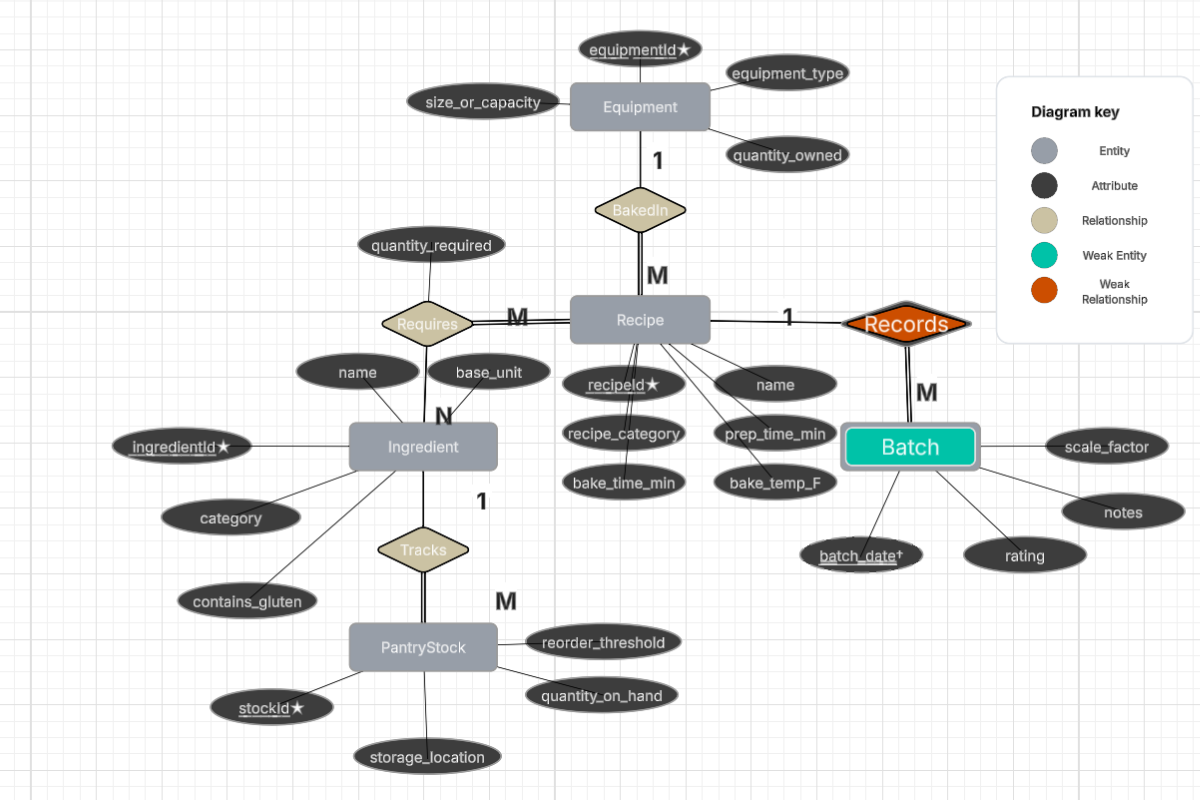
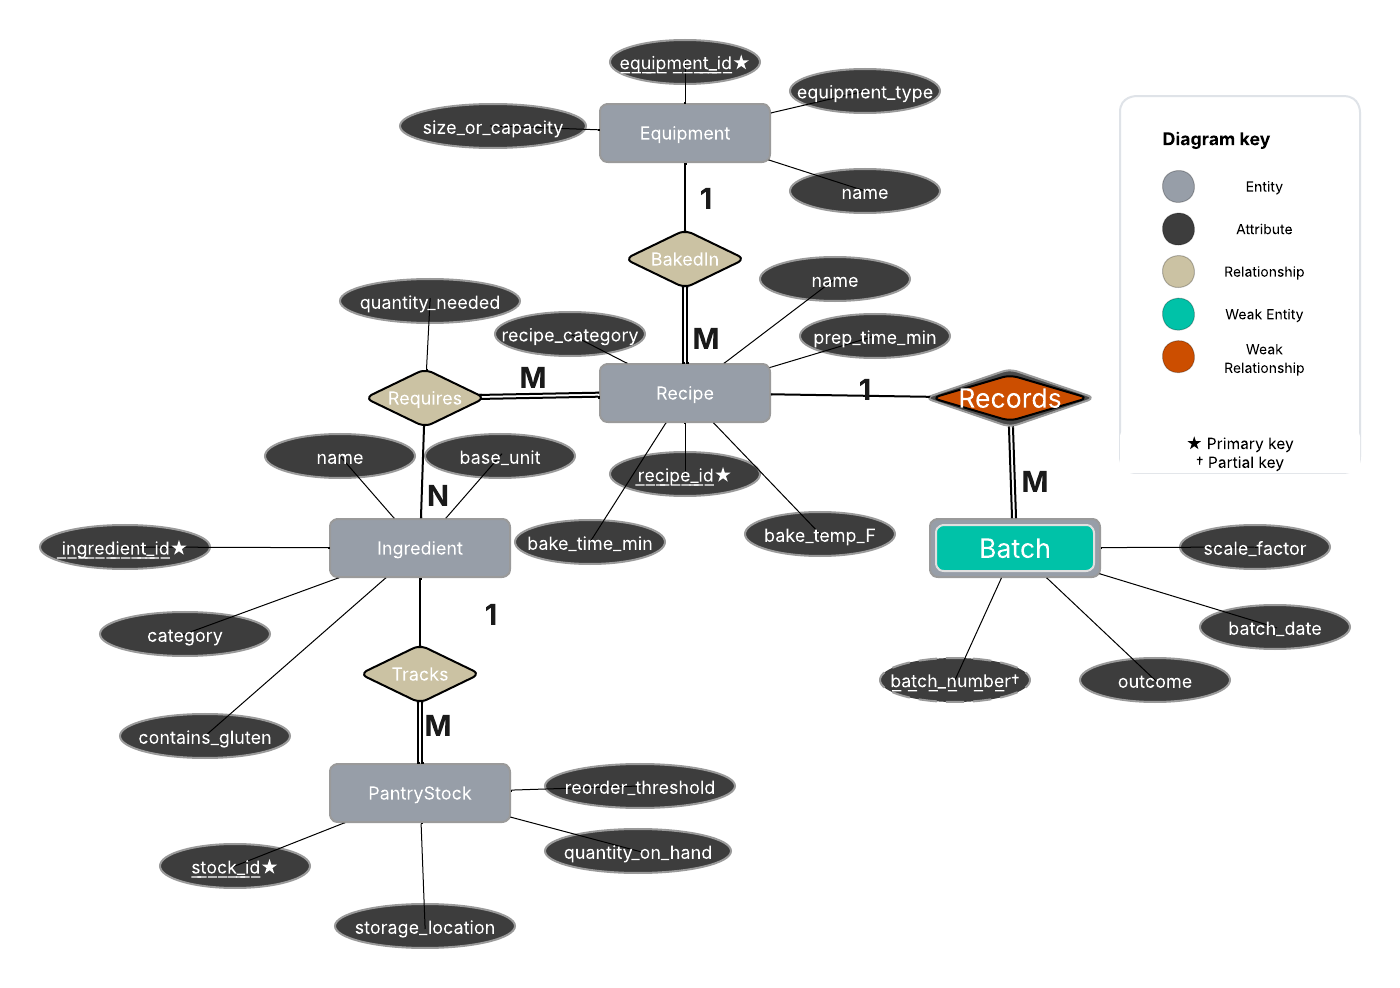
Convert proposal to .md, rename Batch to Bake, update ER diagram and SQL dump

diff --git a/Database_Proposal.md b/Database_Proposal.md
@@ -1,0 +1,70 @@
+# Database Description
+
+I want to make a database that I can use to keep track of what ingredients I have for various recipes I like to bake. I've chosen to go with baking specifically, as I want to keep the scope for this project at a manageable level.
+
+A couple of choices I made to keep things focused: I'm measuring everything in grams, including eggs, so every quantity in the database uses the same unit.
+
+The database is built in MySQL and has six tables: one for each of the five entities below, plus RecipeIngredient for the many-to-many relationship.
+
+## Entities and Descriptions
+
+**Ingredient** - a type of baking ingredient
+
+- ingredient_id (primary key)
+- name
+- category (flour / sweetener / dairy / leavening / chocolate / seasoning)
+- base_unit (g)
+- contains_gluten (yes/no)
+
+Sample instances: All-purpose flour, Unsalted butter
+
+**Recipe** - a baking recipe
+
+- recipe_id (primary key)
+- equipment_id (foreign key to Equipment)
+- name
+- recipe_category (cookie / bread / cake)
+- prep_time_min
+- bake_time_min
+- bake_temp_F
+
+Sample instances: Chocolate chip cookies, Sandwich bread, Vanilla pound cake
+
+**PantryStock** - how much of an ingredient I have in a given place
+
+- stock_id (primary key)
+- ingredient_id (foreign key to Ingredient)
+- quantity_on_hand
+- storage_location (pantry / fridge / freezer)
+- reorder_threshold (minimum amount in that location before I need to restock)
+
+**Equipment** - tools and bakeware I own
+
+- equipment_id (primary key)
+- name
+- equipment_type (pan / mixer / scale / rack)
+- size_or_capacity
+
+**Batch** (weak entity) - a record of one time I actually made a recipe
+
+- recipe_id (part of the primary key, from Recipe)
+- batch_number (partial key - only unique within a recipe)
+- batch_date
+- scale_factor (0.5 for a half batch, 2 for a double batch, etc.)
+- outcome
+
+A Batch has no identity of its own. The date and an ~~~~outcome mean nothing without knowing which recipe they belong to so Recipe identifies it. Its primary key is (recipe_id, batch_number). I used a batch number rather than the date as the partial key so I can make the same recipe twice in one day.
+
+## Relationships
+
+- **Requires** (many-to-many): a Recipe requires many Ingredients, and an Ingredient can be used in many recipes. It is stored in the RecipeIngredient table, keyed on (recipe_id, ingredient_id), and carries a `quantity_needed` attribute. Every recipe should have at least one ingredient (total participation); an ingredient doesn't have to appear in any recipe yet.
+- **Tracks** (one-to-many): an Ingredient can have several PantryStock records, one per storage location - bulk flour in the freezer and working flour in the pantry are tracked separately. Every stock record belongs to exactly one ingredient.
+- **BakedIn** (one-to-many): each Recipe bakes in one primary piece of Equipment, and a given pan gets reused across many recipes. Every recipe must name its pan; a piece of equipment doesn't have to be used by any recipe. I chose this over a many-to-many on purpose: most recipes have one defining vessel, and modeling every tool a recipe touches would add complexity I don't need yet.
+- **Records** (one-to-many, identifying): a Recipe can have many Batches. Every Batch must belong to a recipe; a recipe doesn't have to have been baked yet.
+
+## Use Cases / Questions
+
+1. Which recipes can I make right now with what's in my pantry?
+2. For a recipe I want to make, which ingredients am I short on, and how much do I need to buy?
+3. Which stock locations are below their reorder threshold, so I know what to add to my shopping list?
+4. How much do I need of each ingredient to make a batch of increased size, and how did that scale of batch turn out last time?
